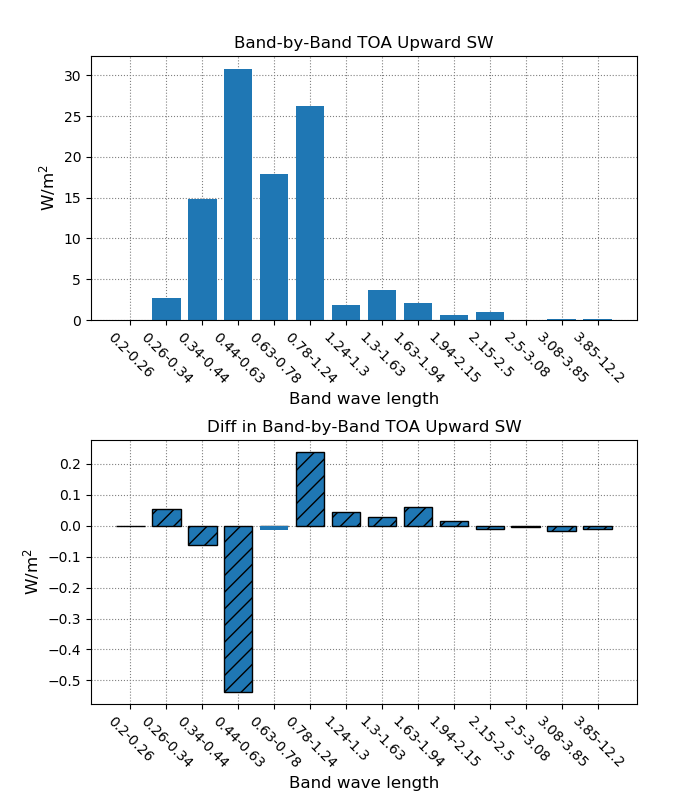
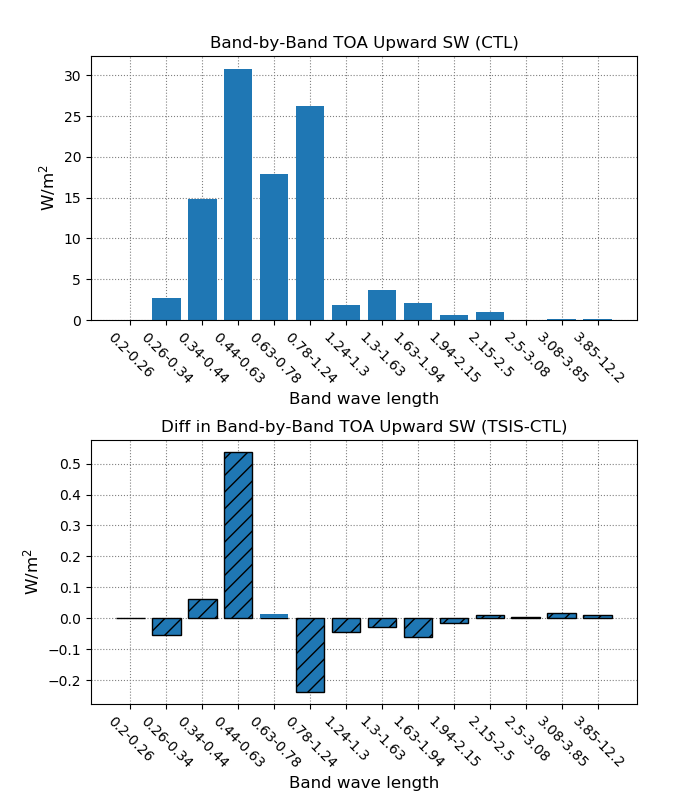
renewed d8 figure

diff --git a/d8_solar_band_zonal_mean_model_vs_model.py b/d8_solar_band_zonal_mean_model_vs_model.py
@@ -42,23 +42,25 @@ months_all=["01","02","03","04","05","06","07","08","09","10","11","12"]
 
 var_group_todo=2
 # variable group 1:
-varnms=np.array(["FSSU13","FSSU12","FSSU11","FSSU10","FSSU09",\
-        "FSSU08","FSSU07","FSSU06","FSSU05","FSSU04",\
-        "FSSU03","FSSU02","FSSU01","FSSU14"])
-var_long_name="Zonal mean TOA Upward SW"
-figure_name="Band_by_Band_TOA_Upward_SW_zonal_mean_ANN"
-units=r"W/m$^2$"
+if var_group_todo==1:
+   varnms=np.array(["FSSU13","FSSU12","FSSU11","FSSU10","FSSU09",\
+           "FSSU08","FSSU07","FSSU06","FSSU05","FSSU04",\
+           "FSSU03","FSSU02","FSSU01","FSSU14"])
+   var_long_name="Zonal mean TOA Upward SW"
+   figure_name="Band_by_Band_TOA_Upward_SW_zonal_mean_ANN"
+   units=r"W/m$^2$"
 
 # variable group 2:
-varnms=np.array(["FSSUS13","FSSUS12","FSSUS11","FSSUS10","FSSUS09",\
-        "FSSUS08","FSSUS07","FSSUS06","FSSUS05","FSSUS04",\
-        "FSSUS03","FSSUS02","FSSUS01","FSSUS14"])
-varnms_sub=np.array(["FSSDS13","FSSDS12","FSSDS11","FSSDS10","FSSDS09",\
-        "FSSDS08","FSSDS07","FSSDS06","FSSDS05","FSSDS04",\
-        "FSSDS03","FSSDS02","FSSDS01","FSSDS14"])
-var_long_name="Zonal mean Surface net Upward SW"
-figure_name="Band_by_Band_surface_net_Upward_SW_zonal_mean_ANN"
-units=r"W/m$^2$"
+if var_group_todo==2:
+   varnms=np.array(["FSSUS13","FSSUS12","FSSUS11","FSSUS10","FSSUS09",\
+           "FSSUS08","FSSUS07","FSSUS06","FSSUS05","FSSUS04",\
+           "FSSUS03","FSSUS02","FSSUS01","FSSUS14"])
+   varnms_sub=np.array(["FSSDS13","FSSDS12","FSSDS11","FSSDS10","FSSDS09",\
+           "FSSDS08","FSSDS07","FSSDS06","FSSDS05","FSSDS04",\
+           "FSSDS03","FSSDS02","FSSDS01","FSSDS14"])
+   var_long_name="Zonal mean Surface net Upward SW"
+   figure_name="Band_by_Band_surface_net_Upward_SW_zonal_mean_ANN"
+   units=r"W/m$^2$"
 
 nlat=96
 nbnd=varnms.size
@@ -132,23 +134,29 @@ yloc=np.array([1,2,3,4,5,6,7,8,9,10,11,12,13,14])
 bands=np.array(["0.2-0.26","0.26-0.34","0.34-0.44","0.44-0.63","0.63-0.78","0.78-1.24","1.24-1.3","1.3-1.63","1.63-1.94","1.94-2.15","2.15-2.5","2.5-3.08","3.08-3.85","3.85-12.2"])
 
 #ax1.bar(bands,means_ctl,color="tab:blue")
-cntr1=ax1.contourf(lat[:],yloc[:],means_ctl[:,:],cmap="hot_r")
+cntr1=ax1.contourf(lat[:],yloc[:],means_ctl[:,:],cmap="hot_r",origin="lower")
 ax1.set_title(var_long_name+" "+"(CTL)",fontsize=12)
 ax1.set_xlabel("Latitude",fontsize=12)
 ax1.set_ylabel("Band wave length",fontsize=12)
 ax1.set_yticks(yloc[:])
 ax1.set_yticklabels(labels=bands) #,rotation=-45)
+#ax1.yaxis.grid(color='gray', linestyle=':')
 fig.colorbar(cntr1, ax=ax1)
+#ax1.set_ylim(0.1,13.0)
 
-cmap2="bwr"
-cntr2=ax2.contourf(lat[:],yloc[:],diffs[:,:],cmap=cmap2)
-ax2.contourf(lat[:],yloc[:],diffs_sig[:,:],cmap=cmap2,hatches=[".."])
+cmap2="seismic"
+cnlevels=np.array([-1.2,-1.0,-0.8,-0.6,-0.4,-0.2,0.0,0.2,0.4,0.6,0.8,1.0,1.2])
+cntr2=ax2.contourf(lat[:],yloc[:],diffs[:,:],cmap=cmap2,levels=cnlevels,origin="image")
+ax2.contourf(lat[:],yloc[:],diffs_sig[:,:],cmap=cmap2,levels=cnlevels,hatches=[".."])
 ax2.set_title(var_long_name+" "+"(TSIS-CTL)",fontsize=12)
 ax2.set_xlabel("Latitude",fontsize=12)
 ax2.set_ylabel("Band wave length",fontsize=12)
 ax2.set_yticks(yloc[:])
 ax2.set_yticklabels(labels=bands) #,rotation=-45)
+#ax2.xaxis.grid(color='gray', linestyle=':')
+#ax2.yaxis.grid(color='gray', linestyle=':')
 fig.colorbar(cntr2, ax=ax2)
+#ax2.set_ylim(0.0,15.0)
 
 #bars=[None]*diffs_sig.size
 #ax2.bar(bands,diffs_sig,color="tab:blue",hatch="//",edgecolor="black")
@@ -162,7 +170,7 @@ fig.colorbar(cntr2, ax=ax2)
 #ax2.xaxis.grid(color='gray', linestyle=':')
 #ax2.yaxis.grid(color='gray', linestyle=':')
 #plt.xticks(x,bands,rotation=-45)
-#plt.savefig(figure_name+".png")
+plt.savefig(figure_name+".png")
 plt.show()
 
 exit()

diff --git a/d2_solar_band_global_mean_model_vs_model.py b/d2_solar_band_global_mean_model_vs_model.py
@@ -40,25 +40,27 @@ fpath_exp="/raid00/xianwen/cesm211_solar/"+exp_pref+"/climo/"
 years=np.arange(2010,2020) 
 months_all=["01","02","03","04","05","06","07","08","09","10","11","12"]
 
-var_group_todo=2
+var_group_todo=1
 # variable group 1:
-varnms=np.array(["FSSU13","FSSU12","FSSU11","FSSU10","FSSU09",\
-        "FSSU08","FSSU07","FSSU06","FSSU05","FSSU04",\
-        "FSSU03","FSSU02","FSSU01","FSSU14"])
-var_long_name="Band-by-Band TOA Upward SW"
-figure_name="Band_by_Band_TOA_Upward_SW_ANN"
-units=r"W/m$^2$"
+if var_group_todo==1:
+   varnms=np.array(["FSSU13","FSSU12","FSSU11","FSSU10","FSSU09",\
+           "FSSU08","FSSU07","FSSU06","FSSU05","FSSU04",\
+           "FSSU03","FSSU02","FSSU01","FSSU14"])
+   var_long_name="Band-by-Band TOA Upward SW"
+   figure_name="Band_by_Band_TOA_Upward_SW_ANN"
+   units=r"W/m$^2$"
 
 # variable group 2:
-varnms=np.array(["FSSUS13","FSSUS12","FSSUS11","FSSUS10","FSSUS09",\
-        "FSSUS08","FSSUS07","FSSUS06","FSSUS05","FSSUS04",\
-        "FSSUS03","FSSUS02","FSSUS01","FSSUS14"])
-varnms_sub=np.array(["FSSDS13","FSSDS12","FSSDS11","FSSDS10","FSSDS09",\
-        "FSSDS08","FSSDS07","FSSDS06","FSSDS05","FSSDS04",\
-        "FSSDS03","FSSDS02","FSSDS01","FSSDS14"])
-var_long_name="Band-by-Band Surface net Upward SW"
-figure_name="Band_by_Band_surface_net_Upward_SW_ANN"
-units=r"W/m$^2$"
+if var_group_todo==2:
+   varnms=np.array(["FSSUS13","FSSUS12","FSSUS11","FSSUS10","FSSUS09",\
+           "FSSUS08","FSSUS07","FSSUS06","FSSUS05","FSSUS04",\
+           "FSSUS03","FSSUS02","FSSUS01","FSSUS14"])
+   varnms_sub=np.array(["FSSDS13","FSSDS12","FSSDS11","FSSDS10","FSSDS09",\
+           "FSSDS08","FSSDS07","FSSDS06","FSSDS05","FSSDS04",\
+           "FSSDS03","FSSDS02","FSSDS01","FSSDS14"])
+   var_long_name="Band-by-Band Surface net Upward SW"
+   figure_name="Band_by_Band_surface_net_Upward_SW_ANN"
+   units=r"W/m$^2$"
 
 #f1=fpath_ctl+"solar_TSIS_cesm211_standard-ETEST-f19_g17-ens1.cam.h0.0001-01.nc"
 #f2=fpath_exp+"tsis_ctl_cesm211_standard-ETEST-f19_g17-ens1.cam.h0.0001-01.nc"
